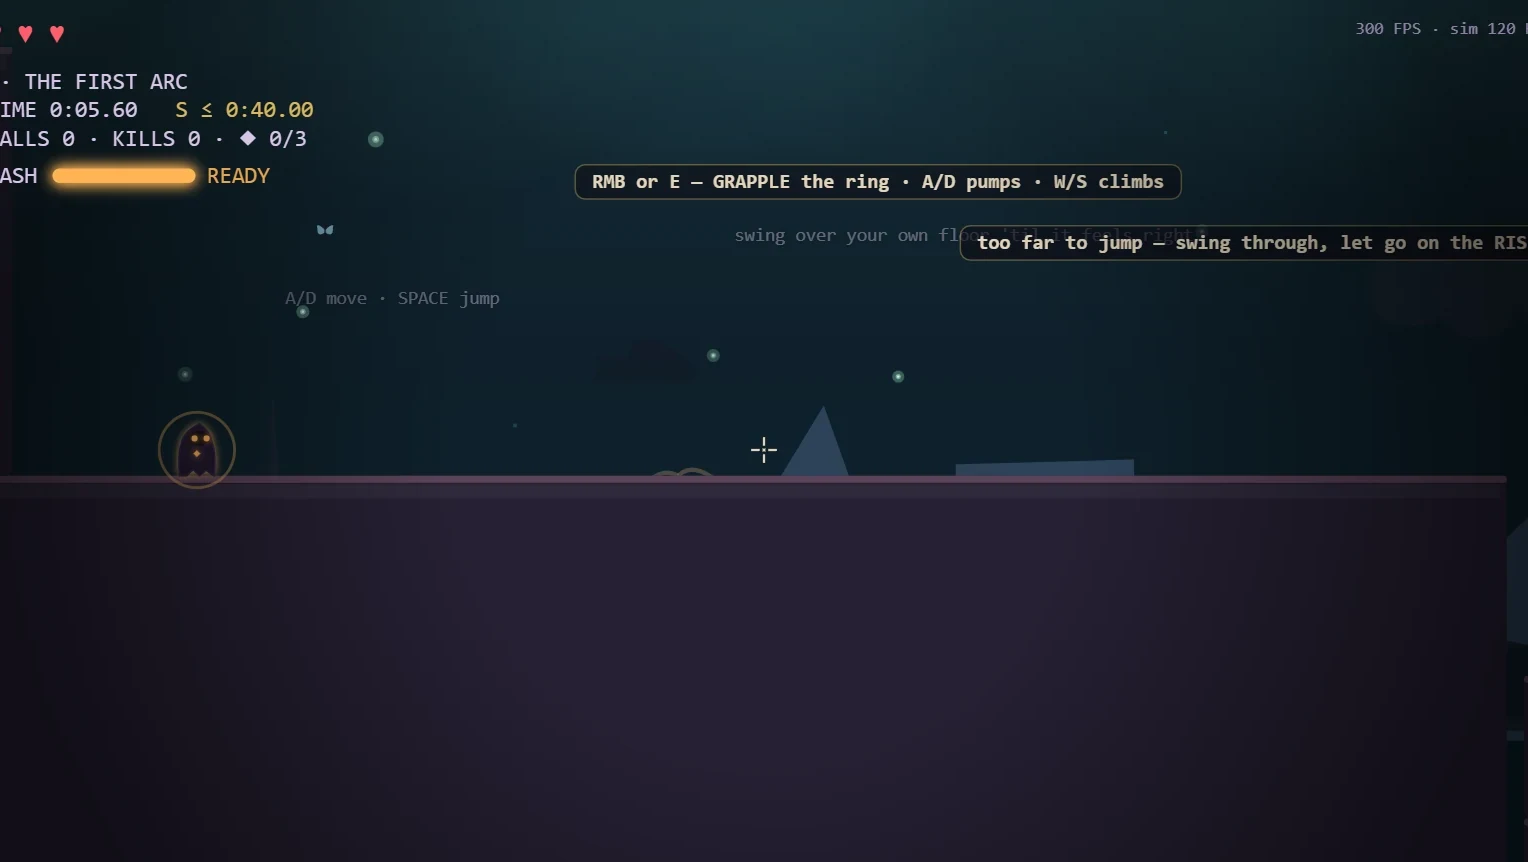
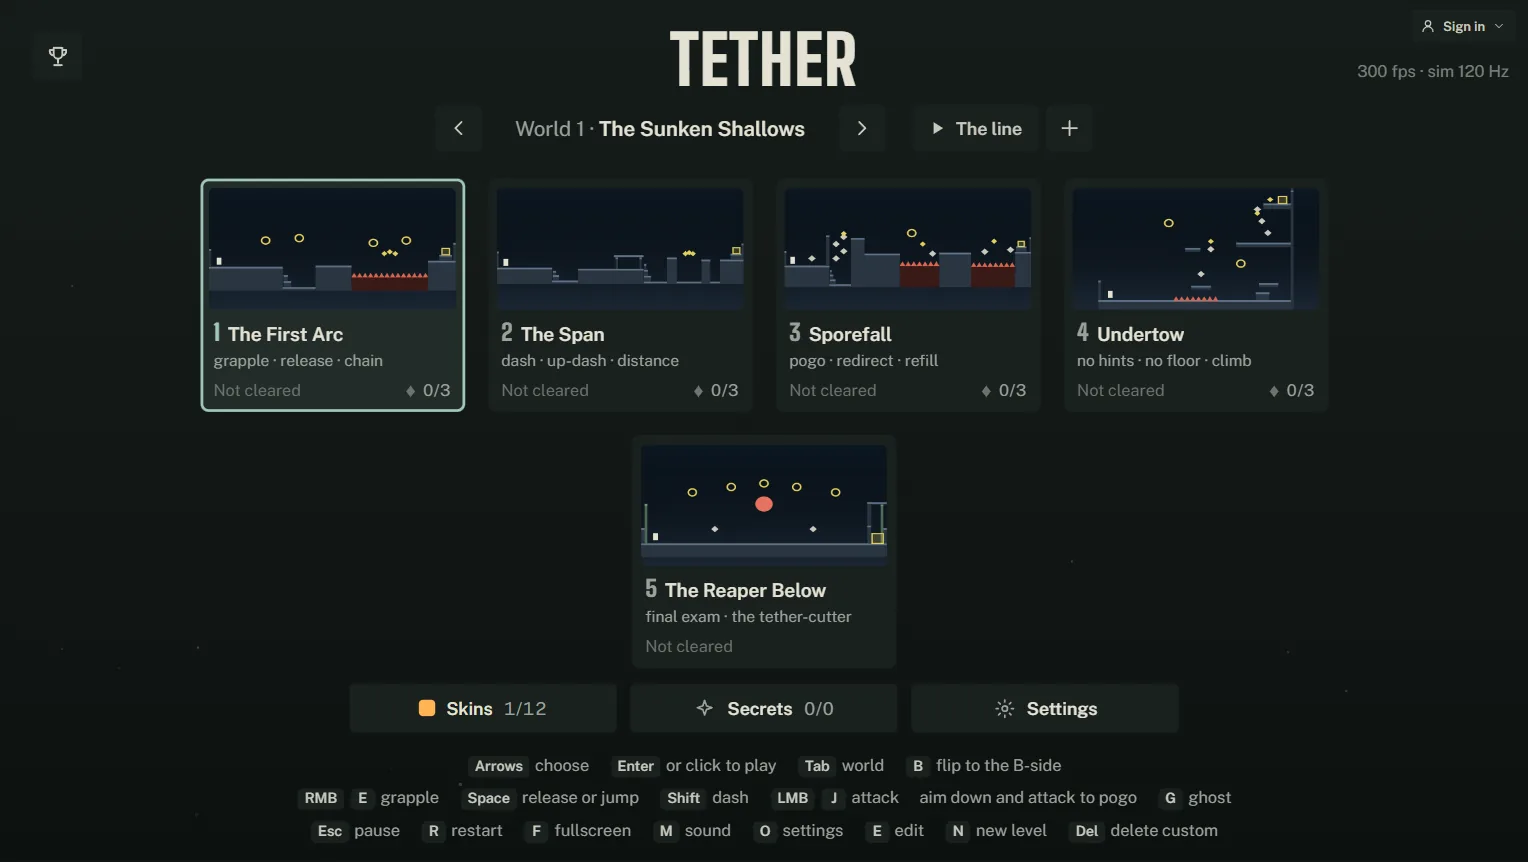
Update the TETHER screenshots for its redesign
A swing over the spike pit with the new HUD, and the new level select.

diff --git a/index.html b/index.html
@@ -118,7 +118,7 @@
 
       <article class="project project-tether">
         <figure class="shot shot-wide" data-shot>
-          <img src="/img/tether-2.webp" width="1528" height="862" alt="TETHER, level one: the hooded player stands on a ledge before a gap, with tutorial hints about grappling the ring." loading="lazy">
+          <img src="/img/tether-2.webp" width="1528" height="862" alt="TETHER, level one: the hooded player swings from a grapple ring over a spike pit, with the hearts, level timer, S-rank target and dash meter in the corner." loading="lazy">
         </figure>
         <div class="project-text" data-stagger>
           <h2 class="project-title">TETHER</h2>
@@ -129,7 +129,7 @@
           </div>
         </div>
         <figure class="shot shot-small" data-shot>
-          <img src="/img/tether-1.webp" width="1528" height="862" alt="TETHER, level one: hearts, the level timer with its S-rank target, the dash meter, and the first grapple ring ahead." loading="lazy">
+          <img src="/img/tether-1.webp" width="1528" height="862" alt="TETHER’s level select for The Sunken Shallows: five level cards with minimaps of each level, plus skins, secrets and settings." loading="lazy">
         </figure>
       </article>
 
